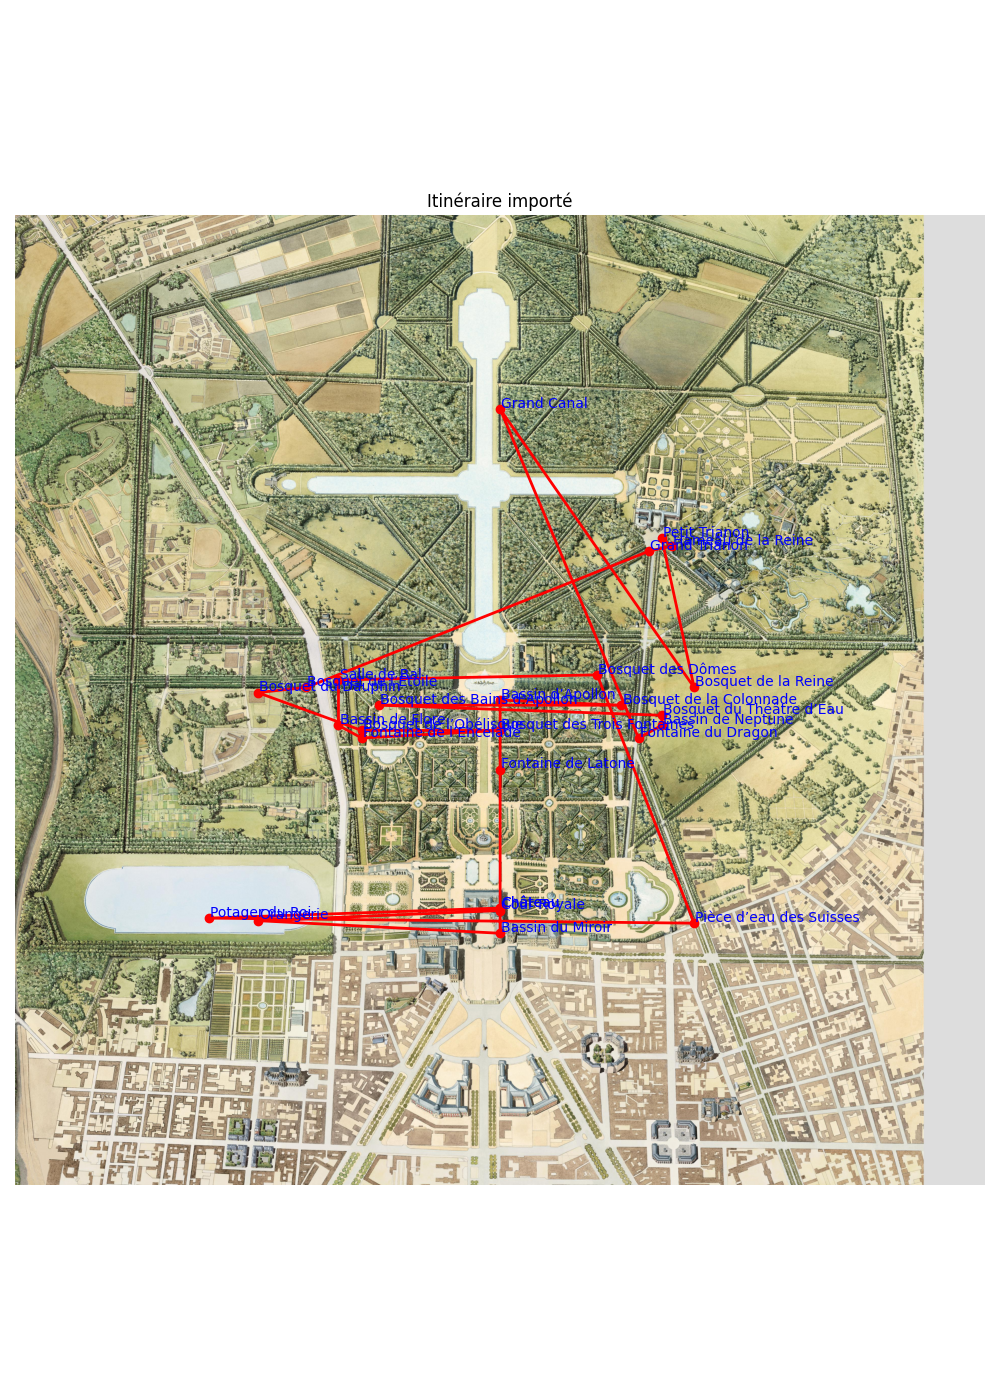
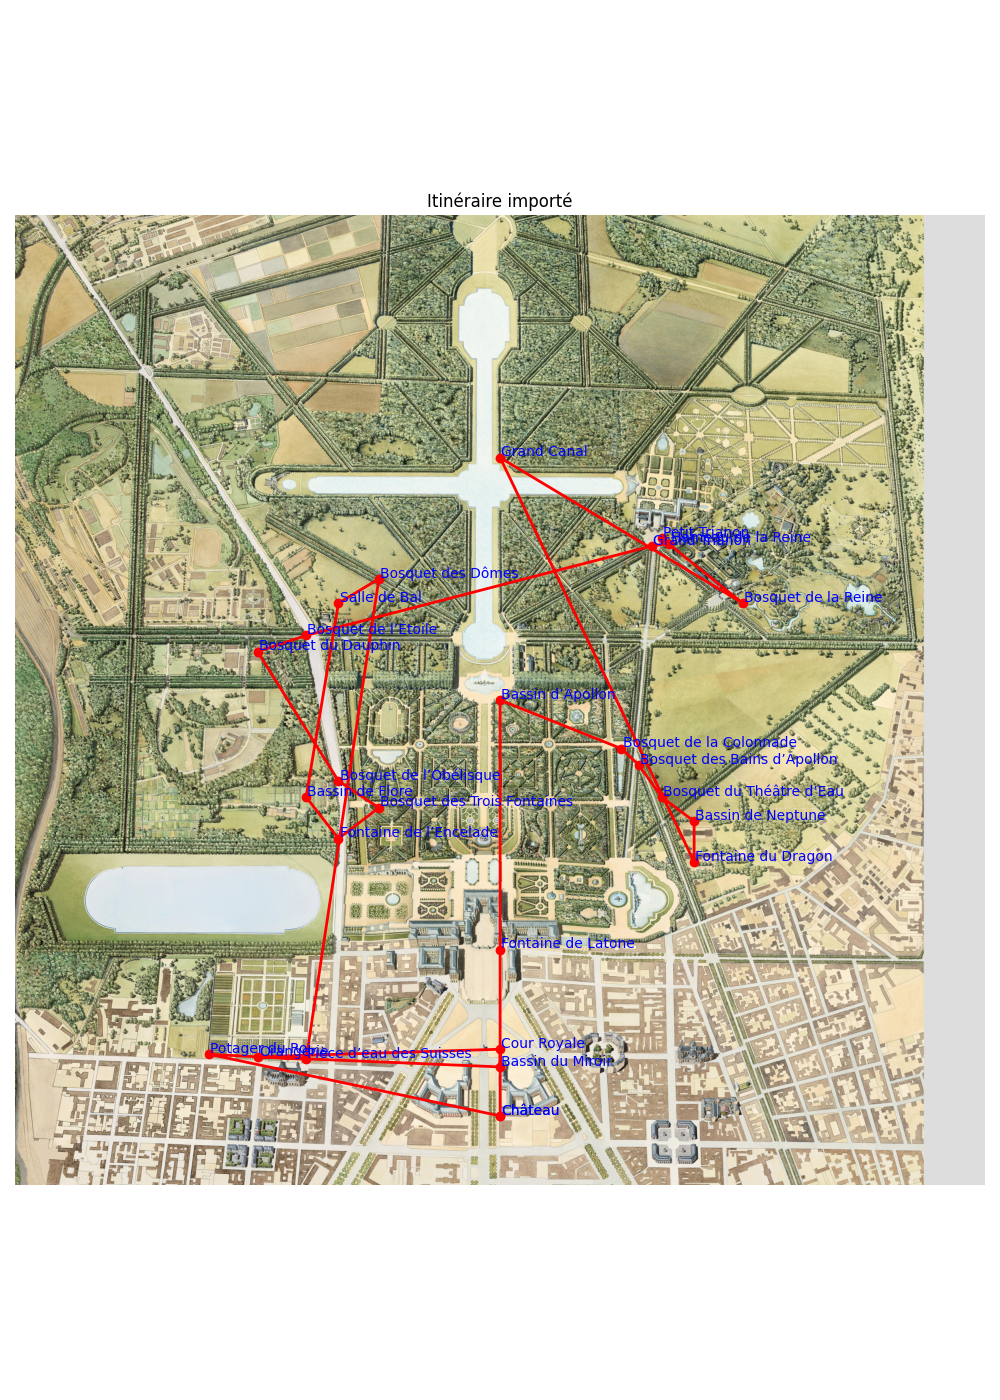
changement d'image

diff --git a/maps/position.py b/maps/position.py
@@ -13,50 +13,50 @@ h, w, _ = img.shape
 # 2. Associer POI -> pixels
 # ============================
 poi_positions = {
-    # Château et abords immédiats
-    "Château": (w // 2, h - (h // 3.5)),
-    "Cour Royale": (w // 2, h - (h // 3.5) + 10),
-    "Galerie des Glaces": (w // 2, h - (h // 3.5) + 20),
-    "Chapelle Royale": (w // 2 + 40, h - (h // 3.5) + 10),
-    "Opéra Royal": (w // 2 + 60, h - (h // 3.5) + 30),
+    # Château et abords immédiats (extension verticale : h/7)
+    "Château": (w // 2, h - h // 14),  # Milieu vertical du château
+    "Cour Royale": (w // 2, h - h // 7 + 10),
+    "Galerie des Glaces": (w // 2, h - h // 7 + 20),
+    "Chapelle Royale": (w // 2 + 20, h - h // 7 + 15),
+    "Opéra Royal": (w // 2 + 40, h - h // 7 + 30),
 
-    # Orangerie et bassins proches
-    "Orangerie": (w // 2 - (w // 4), h - (h // 3.5) + 50),
-    "Bassin du Miroir": (w // 2, h - (h // 3.5) + 100),
+    # Sud des jardins (proche du château)
+    "Orangerie": (w // 2 - w // 4, h - h // 7 + 40),
+    "Bassin du Miroir": (w // 2, h - h // 7 + 80),
 
-    # Fontaines et bassins principaux
-    "Fontaine de Latone": (w // 2, h - (h // 3.5) - (h // 7)),
+    # Axes centraux (Fontaine de Latone et Bassin d’Apollon)
+    "Fontaine de Latone": (w // 2, h - h // 7 - h // 10),
     "Bassin d’Apollon": (w // 2, h // 2),
 
-    # Bosquets
-    "Bosquet de la Colonnade": (w // 2 + (w // 8), h // 2 + 20),
-    "Bosquet des Bains d’Apollon": (w // 2 - (w // 8), h // 2 + 20),
-    "Bosquet du Théâtre d’Eau": (w // 2 + (w // 6), h // 2 + 60),
-    "Bassin de Neptune": (w // 2 + (w // 6), h // 2 + 100),
-    "Bassin de Flore": (w // 2 - (w // 6), h // 2 + 100),
-    "Fontaine du Dragon": (w // 2 + (w // 7), h // 2 + 150),
-    "Fontaine de l’Encelade": (w // 2 - (w // 7), h // 2 + 150),
-    "Bosquet de l’Encélade": (w // 2 - (w // 6), h // 2 + 80),
-    "Bosquet des Trois Fontaines": (w // 2, h // 2 + 120),
-    "Bosquet de la Reine": (w // 2 + (w // 5), h // 2 - 50),
-    "Bosquet de l’Étoile": (w // 2 - (w // 5), h // 2 - 50),
-    "Bosquet du Dauphin": (w // 2 - (w // 4), h // 2 - 30),
-    "Bosquet de l’Obélisque": (w // 2 - (w // 7), h // 2 + 120),
-    "Salle de Bal": (w // 2 - (w // 6), h // 2 - 80),
-    "Bosquet des Dômes": (w // 2 + (w // 10), h // 2 - 100),
+    # Bosquets est (à droite de l'axe central)
+    "Bosquet de la Colonnade": (w // 2 + w // 8, h // 2 + h // 20),
+    "Bosquet des Bains d’Apollon": (w // 2 + w // 7, h // 2 + h // 15),
+    "Bosquet du Théâtre d’Eau": (w // 2 + w // 6, h // 2 + h // 10),
+    "Bassin de Neptune": (w // 2 + w // 5, h // 2 + h // 8),
 
-    # Grands éléments des jardins
-    "Grand Canal": (w // 2, h // 5),
+    # Nord-est (près du Grand Canal)
+    "Fontaine du Dragon": (w // 2 + w // 5, h // 2 + h // 6),
+    "Grand Canal": (w // 2, h // 4),
 
-    # Trianons
-    "Petit Trianon": (w - (w // 3), h // 3),
-    "Hameau de la Reine": (w - (w // 3) + 40, h // 3 + 30),
-    "Grand Trianon": (w - (w // 3) - 50, h // 3 + 50),
-    "Domaine de Marie-Antoinette": (w - (w // 3) + 60, h // 3 + 40),
+    # Trianons (nord-est)
+    "Bosquet de la Reine": (w // 2 + w // 4, h // 3 + h // 15),
+    "Petit Trianon": (w - w // 3, h // 3),
+    "Hameau de la Reine": (w - w // 3 + 30, h // 3 + 20),
+    "Grand Trianon": (w - w // 3 - 40, h // 3 + 30),
 
-    # Autres
-    "Pièce d’eau des Suisses": (w // 2 + (w // 5), h - (h // 3.5) + 60),
-    "Potager du Roi": (w // 5, h - (h // 3.5) + 40),
+    # Bosquets ouest (à gauche de l'axe central)
+    "Bosquet de l’Étoile": (w // 2 - w // 5, h // 2 - h // 15),
+    "Bosquet du Dauphin": (w // 2 - w // 4, h // 2 - h // 20),
+    "Bosquet de l’Obélisque": (w // 2 - w // 6, h // 2 + h // 12),
+    "Bosquet des Trois Fontaines": (w // 2 - w // 8, h // 2 + h // 9),
+    "Fontaine de l’Encelade": (w // 2 - w // 6, h // 2 + h // 7),
+    "Bassin de Flore": (w // 2 - w // 5, h // 2 + h // 10),
+    "Salle de Bal": (w // 2 - w // 6, h // 2 - h // 10),
+    "Bosquet des Dômes": (w // 2 - w // 8, h // 2 - h // 8),
+
+    # Sud-ouest (proche de l'Orangerie)
+    "Pièce d’eau des Suisses": (w // 2 - w // 5, h - h // 7 + 50),
+    "Potager du Roi": (w // 5, h - h // 7 + 30),
 }
 
 
